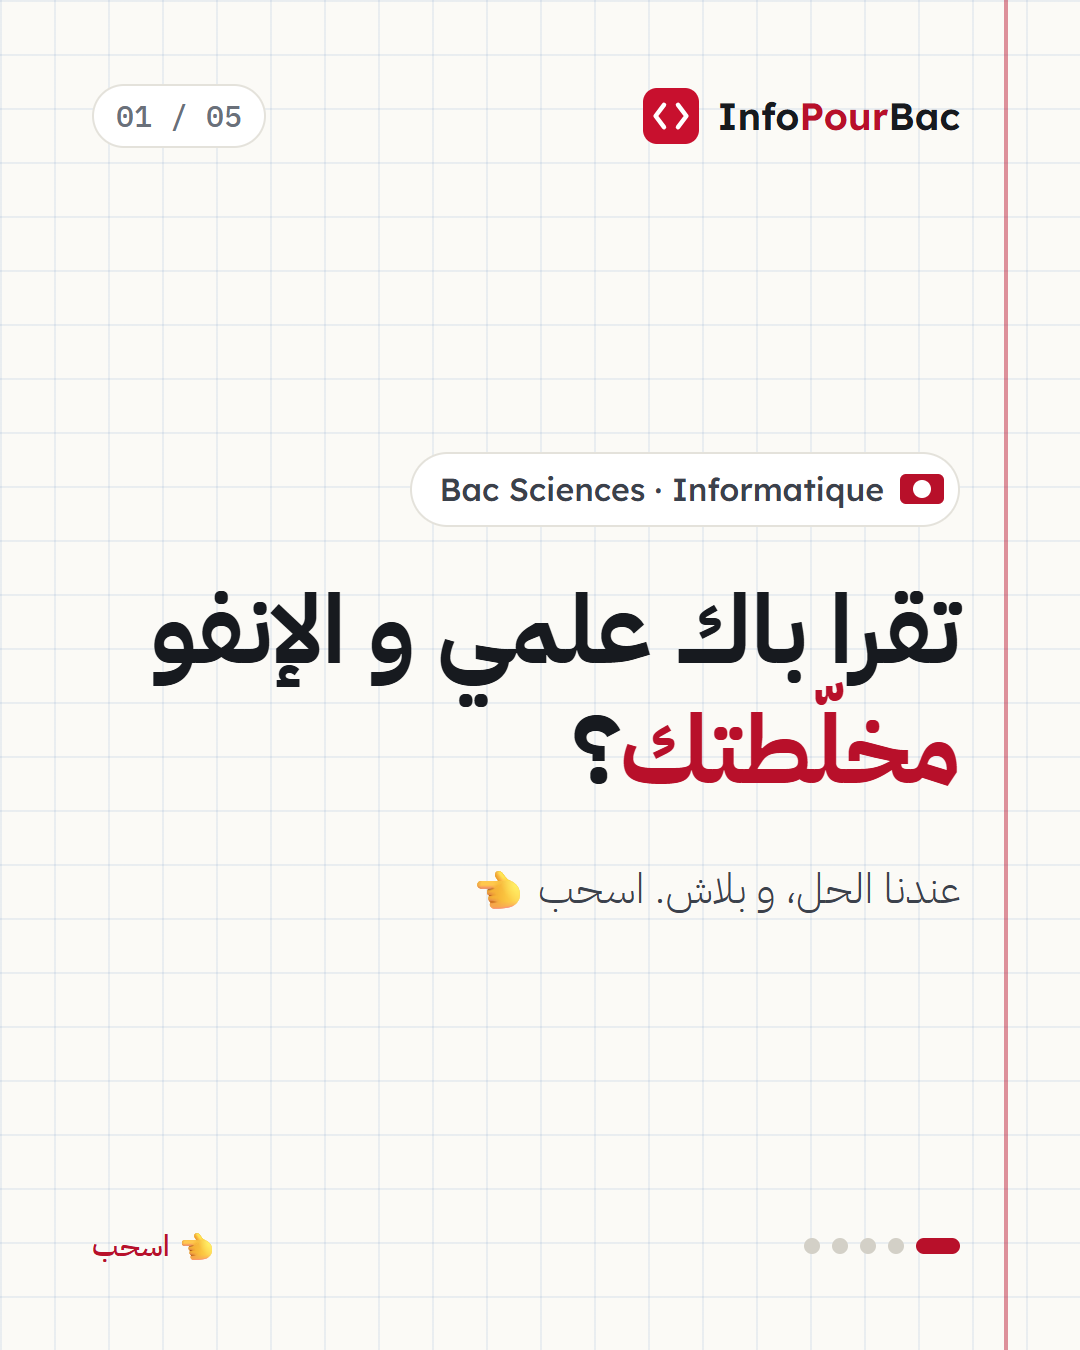
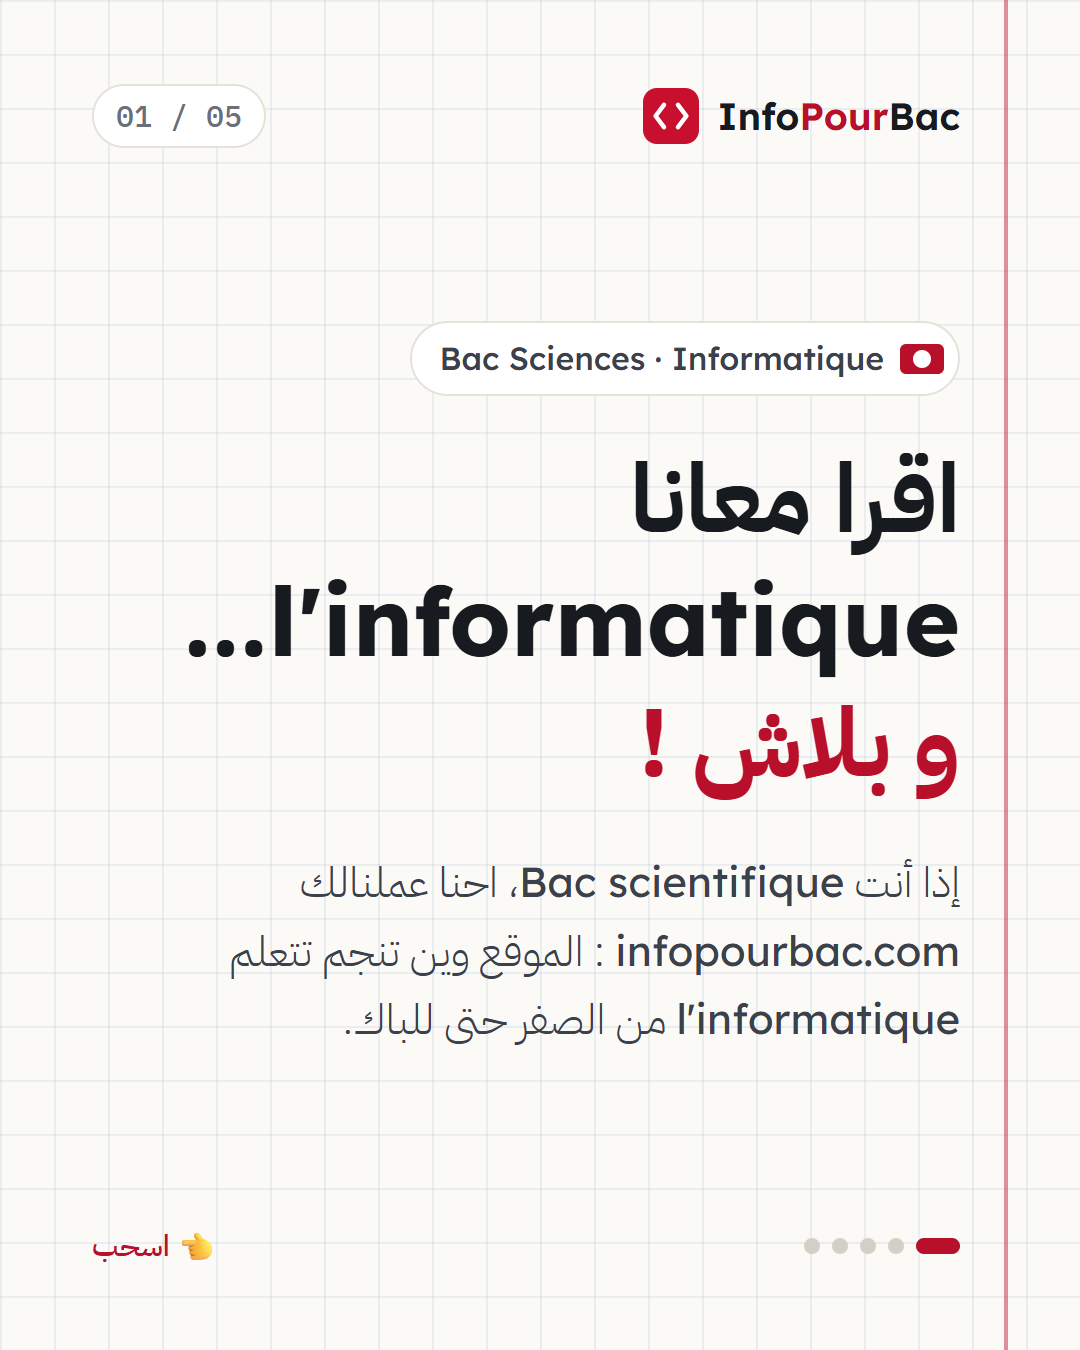
Rewrite intro carousel cover with the new hook

diff --git a/carousels/make-ar.js b/carousels/make-ar.js
@@ -17,8 +17,8 @@ const CAROUSELS = [
     id: '0-intro-plateforme',
     slides: [
       { type: 'cover', kicker: `Bac Sciences · Informatique`,
-        title: `تقرا باك علمي و الإنفو <em>مخلّطتك</em>؟`,
-        sub: `عندنا الحل، و بلاش. اسحب 👈` },
+        title: `اقرا معانا ${L("l'informatique")}…<br><em>و بلاش !</em>`,
+        sub: `إذا أنت ${L('Bac scientifique')}، احنا عملنالك ${L('infopourbac.com')} : الموقع وين تنجم تتعلم ${L("l'informatique")} من الصفر حتى للباك.` },
       { title: `المشكلة اللي يعيشها كل تلميذ`, body: `<div class="cards3">
           <div><b>💸 الـ${L('cours')} الخاصة غالية</b><span>مش كل واحد ينجم يخلّص ساعات إنفو كل جمعة.</span></div>
           <div><b>🌀 المواقع مخلّطة</b><span>برنامج ناقص، أمثلة مش متاع الباك التونسي، إشهار في كل بلاصة.</span></div>
